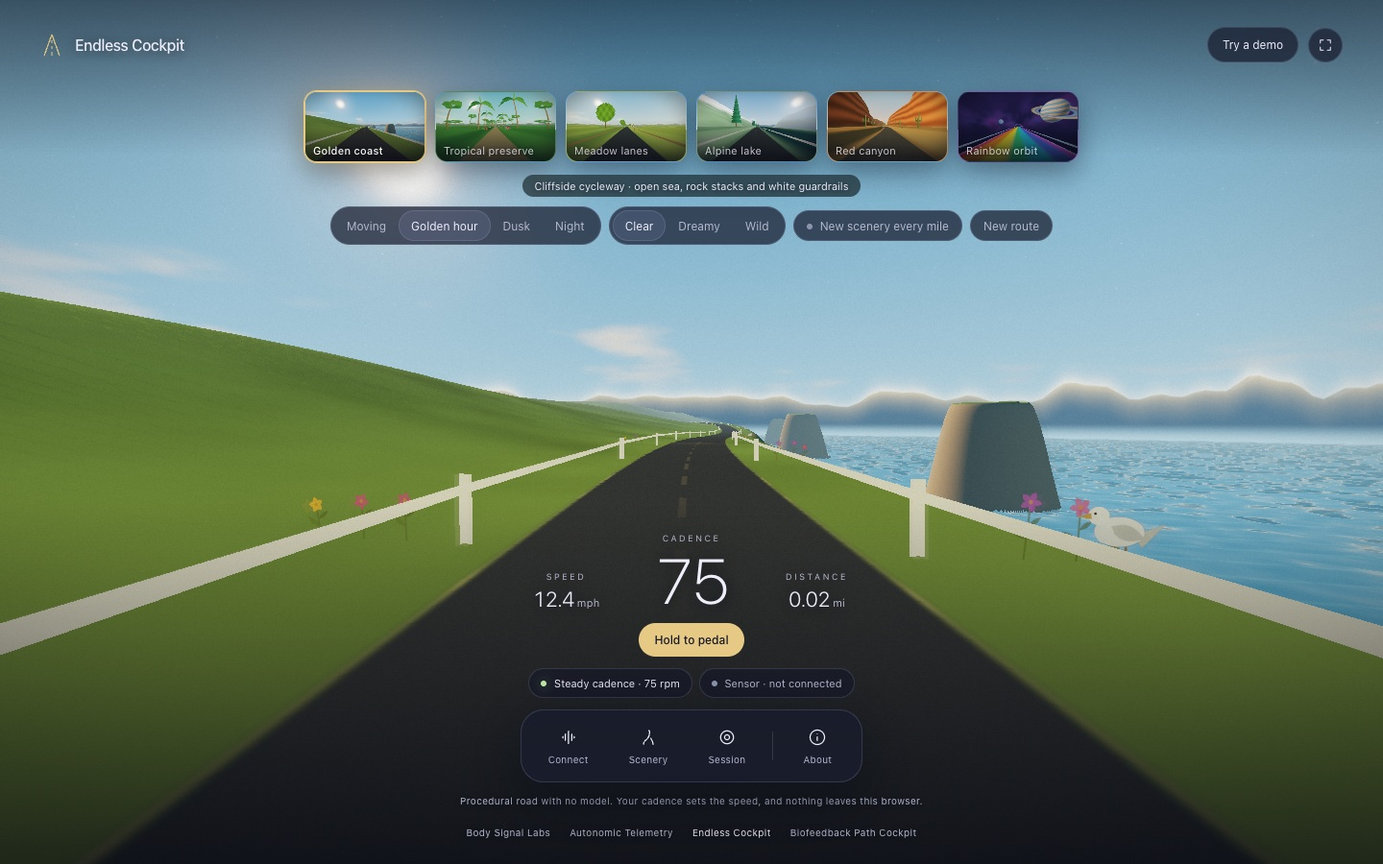
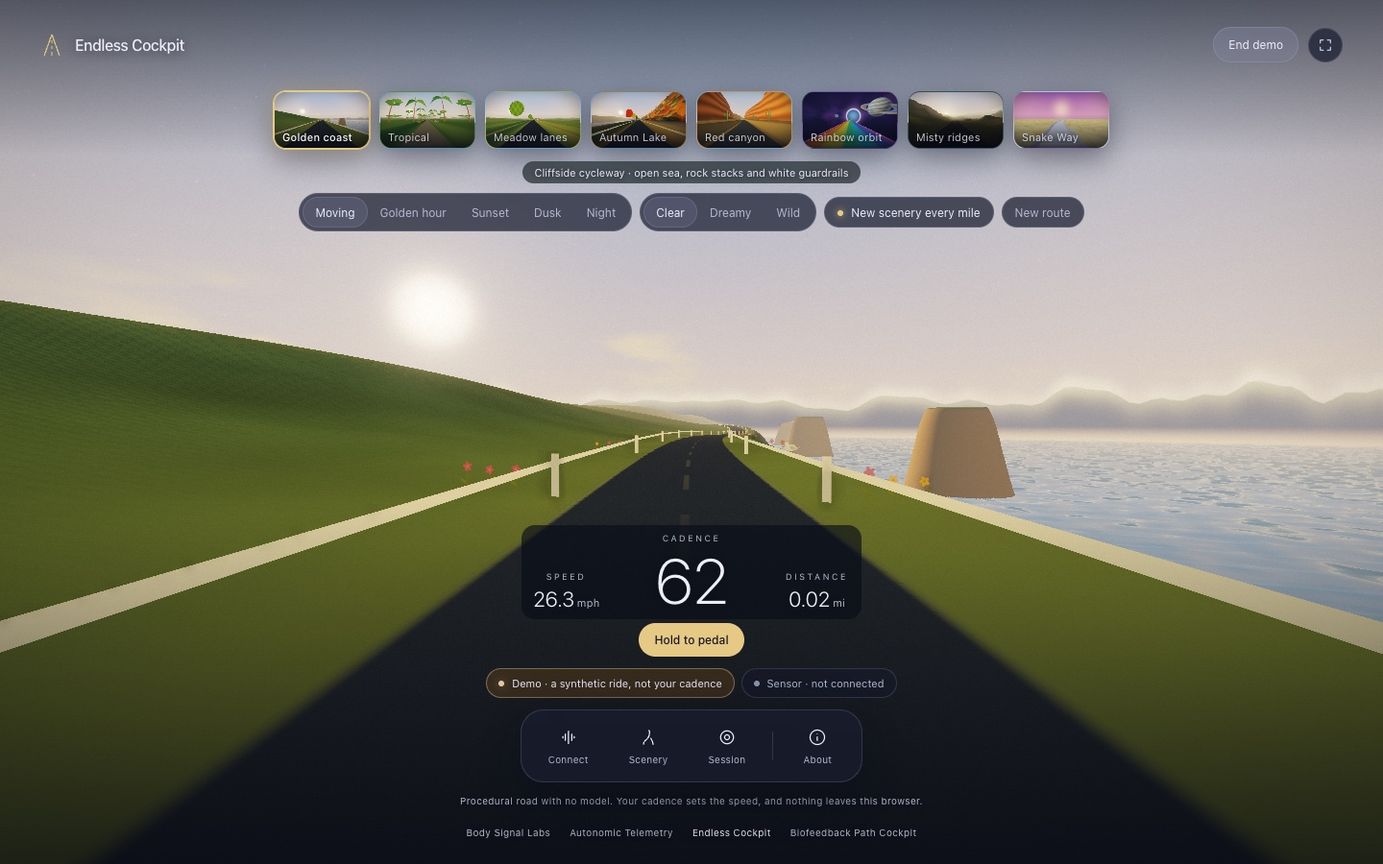
Update docs, field guide, home page, and screenshots with all new features and biomes

diff --git a/field-guide.html b/field-guide.html
@@ -328,18 +328,19 @@ body.site { overflow: auto; background: radial-gradient(1400px 800px at 72% -10%
 
     <section id="endless">
       <h2>Endless Cockpit</h2>
-      <p>Endless Cockpit takes its speed from your cadence. Connect a Bluetooth cadence sensor or smart trainer from the Connect sheet, hold Space or the Hold to pedal button, or set a steady cadence. It uses Biofeedback's cadence response: smooth acceleration and braking, an 18 m/s nominal top speed before grade, and a grade multiplier from 0.6 to 1.35. Holding Space follows that same response, with no added velocity kick or road-light bars. The displayed speed is simulated travel, not measured bicycle speed.</p>
-      <p>Both cockpits offer Golden coast, Tropical, Meadow lanes, Autumn Lake, Red canyon, Rainbow orbit, Misty ridges and Snake Way. The coast has sea stacks and guardrails; the preserve has palms and an earth trail; the meadows have farms and fences. Autumn Lake follows a lake between colorful woodland and rocky bluffs. The canyon has sandstone walls, Rainbow orbit crosses space on a suspended ribbon, Misty ridges keeps Biofeedback's original misty mountain road, and Snake Way winds above golden clouds on a pale, scaled road with raised spines.</p>
-      <p>Endless puts the scene tiles on the main screen, beside time of day, the Clear/Dreamy/Wild looks, New scenery every mile, and New route. It remembers those choices. Biofeedback's scene choices are in its Route sheet. On a phone, hold the pedal button with a finger.</p>
+      <p>Endless Cockpit takes its speed from your cadence. Connect a Bluetooth cadence sensor or smart trainer from the Connect sheet, hold Space or the Hold to pedal button, or set a steady cadence. It features natural momentum physics: releasing Space or the pedal button coasts smoothly to a stop. Smart trainers receive live Bluetooth FTMS target inclination matching the procedural road slope. The displayed speed is simulated travel, not measured bicycle speed.</p>
+      <p>Both cockpits offer Golden coast, Tropical, Meadow lanes, Autumn Lake, Red canyon, Rainbow orbit, Misty ridges and Snake Way. The coast has sea stacks and guardrails; Tropical has palms and an earth trail; the meadows have farms and fences. Autumn Lake follows a lake between colorful woodland and rocky bluffs. The canyon has sandstone walls, Rainbow orbit crosses space on a suspended ribbon (with an optional space lattice toggle in Scenery), Misty ridges keeps Biofeedback's original misty mountain road, and Snake Way winds above golden clouds on a pale, scaled road with raised spines.</p>
+      <p>Both cockpits place the scene tiles on the main screen, beside five times of day (Moving, Golden hour, Sunset, Dusk, Night), Clear/Dreamy/Wild looks, New scenery every mile, and New route. Keyboard shortcuts allow instant control: <b>1–8</b> for scenes, <b>T</b> for time of day, <b>L</b> for looks, <b>A</b> for auto-scenery, <b>N</b> for a new route, and <b>Z</b> or <b>Escape</b> for Zen / Cinema mode. Middle-clicking (scroll wheel click) instantly rolls a random scenery combination. Completed sessions can be exported as standard TCX activity files for Strava and Garmin Connect.</p>
       <p>The sensor's status reads not connected, no Bluetooth in this browser, none chosen, connected with no cadence yet, live, or disconnected. Some sensors send nothing until the crank turns.</p>
       <p>A replay keeps its recorded input ahead of live or manual cadence. For a new ride, a running demo or available sensor supplies cadence; otherwise a steady setting takes priority over the pedal button. Older Endless recordings retain their former 7 m/s nominal speed scale. Their cadence was already smoothed when saved, so replay is not an exact physical reconstruction.</p>
     </section>
 
     <section id="biofeedback">
       <h2>Biofeedback Path Cockpit</h2>
-      <p>A Bluetooth heart-rate strap paints the weather, and a cadence sensor or smart trainer sets the speed, straight from Chrome or Edge with no helper app. A strap that reports beat intervals adds RMSSD and SDNN. A rate-only sensor, such as the Hume Band, gives an explicitly limited estimate. For Muse S, choose <b>Brainwaves</b> in Ride and use the <a href="docs/EEG_SETUP.md">optional Mac bridge launcher</a>. No cadence or heart sensor is required for that drive option. The desktop app's window cannot show the Bluetooth list, so connect from a browser.</p>
-      <p><b>Watch:</b> the inferred index, Autonomic Telemetry's own model, makes the gas cloud wider, brighter and warmer. It needs 120 seconds of quiet data first, and it waits while you pedal. <b>Ride:</b> heart rate above your baseline adds up to 4.5% of apparent grade, shown apart from the road's grade. <b>Train:</b> follow the ring, and how far your heart rate swings with it lifts the fog. Hold it for a minute and dawn breaks.</p>
-      <p>Watch and Train keep their weather, breathing and fog controls, with the same signal calculations as before. Misty ridges remains the starting scene. Older Biofeedback recordings use their original scene catalog and renderer, so their saved scene numbers still refer to the environments they recorded.</p>
+      <p>A Bluetooth heart-rate strap paints the weather, and a cadence sensor or smart trainer sets the speed, straight from Chrome or Edge with no helper app. Smart trainers receive procedural incline adjustments over Bluetooth FTMS. A strap that reports beat intervals adds RMSSD and SDNN. A rate-only sensor, such as the Hume Band, gives an explicitly limited estimate. For Muse S, choose <b>Brainwaves</b> in Ride and use the <a href="docs/EEG_SETUP.md">optional Mac bridge launcher</a>. No cadence or heart sensor is required for that drive option. The desktop app's window cannot show the Bluetooth list, so connect from a browser.</p>
+      <p>Biofeedback Path Cockpit shares the same on-screen scenebar, five times of day (including Sunset), Clear/Dreamy/Wild looks, keyboard shortcuts, and TCX activity export as Endless Cockpit.</p>
+      <p><b>Watch:</b> Engages automatically when the bike stops moving after 2.5 seconds. The camera tilts up toward the sky and provides a rhythmic cardiac coherence breathing pacer (6 breaths/minute). Pedaling immediately returns the camera to the forward road view. In resting state, the inferred index (Autonomic Telemetry's model) also charges the sky. <b>Ride:</b> Cadence sets speed with momentum coasting; heart rate above baseline adds apparent grade. <b>Train:</b> Follow the ring, and heart-rate swing coherence lifts the fog. Hold it for a minute and dawn breaks.</p>
+      <p>Watch and Train keep their weather, breathing and fog controls, with the same signal calculations as before. Older Biofeedback recordings use their original scene catalog and renderer, so their saved scene numbers still refer to the environments they recorded.</p>
       <p><b>Brainwaves drive:</b> connect your Muse S, then calibrate with your eyes open while looking at the scene. A lower EEG beta/alpha ratio relative to your reference increases speed and steadiness. The score is an experimental game mapping, not a measurement of mental clarity. Invalid or stale EEG makes the ride coast to a stop; its quality message explains why. The demo and recordings keep their source labels.</p>
       <p>Each sensor says whether it is not connected, waiting for you to choose, refused, missing, connected with no reading, live, or disconnected. Inferred values are never measured, and none of it is medical. It is not therapy.</p>
     </section>

diff --git a/src/field-guide.src.html b/src/field-guide.src.html
@@ -19,18 +19,19 @@
 
     <section id="endless">
       <h2>Endless Cockpit</h2>
-      <p>Endless Cockpit takes its speed from your cadence. Connect a Bluetooth cadence sensor or smart trainer from the Connect sheet, hold Space or the Hold to pedal button, or set a steady cadence. It uses Biofeedback's cadence response: smooth acceleration and braking, an 18 m/s nominal top speed before grade, and a grade multiplier from 0.6 to 1.35. Holding Space follows that same response, with no added velocity kick or road-light bars. The displayed speed is simulated travel, not measured bicycle speed.</p>
-      <p>Both cockpits offer Golden coast, Tropical, Meadow lanes, Autumn Lake, Red canyon, Rainbow orbit, Misty ridges and Snake Way. The coast has sea stacks and guardrails; the preserve has palms and an earth trail; the meadows have farms and fences. Autumn Lake follows a lake between colorful woodland and rocky bluffs. The canyon has sandstone walls, Rainbow orbit crosses space on a suspended ribbon, Misty ridges keeps Biofeedback's original misty mountain road, and Snake Way winds above golden clouds on a pale, scaled road with raised spines.</p>
-      <p>Endless puts the scene tiles on the main screen, beside time of day, the Clear/Dreamy/Wild looks, New scenery every mile, and New route. It remembers those choices. Biofeedback's scene choices are in its Route sheet. On a phone, hold the pedal button with a finger.</p>
+      <p>Endless Cockpit takes its speed from your cadence. Connect a Bluetooth cadence sensor or smart trainer from the Connect sheet, hold Space or the Hold to pedal button, or set a steady cadence. It features natural momentum physics: releasing Space or the pedal button coasts smoothly to a stop. Smart trainers receive live Bluetooth FTMS target inclination matching the procedural road slope. The displayed speed is simulated travel, not measured bicycle speed.</p>
+      <p>Both cockpits offer Golden coast, Tropical, Meadow lanes, Autumn Lake, Red canyon, Rainbow orbit, Misty ridges and Snake Way. The coast has sea stacks and guardrails; Tropical has palms and an earth trail; the meadows have farms and fences. Autumn Lake follows a lake between colorful woodland and rocky bluffs. The canyon has sandstone walls, Rainbow orbit crosses space on a suspended ribbon (with an optional space lattice toggle in Scenery), Misty ridges keeps Biofeedback's original misty mountain road, and Snake Way winds above golden clouds on a pale, scaled road with raised spines.</p>
+      <p>Both cockpits place the scene tiles on the main screen, beside five times of day (Moving, Golden hour, Sunset, Dusk, Night), Clear/Dreamy/Wild looks, New scenery every mile, and New route. Keyboard shortcuts allow instant control: <b>1–8</b> for scenes, <b>T</b> for time of day, <b>L</b> for looks, <b>A</b> for auto-scenery, <b>N</b> for a new route, and <b>Z</b> or <b>Escape</b> for Zen / Cinema mode. Middle-clicking (scroll wheel click) instantly rolls a random scenery combination. Completed sessions can be exported as standard TCX activity files for Strava and Garmin Connect.</p>
       <p>The sensor's status reads not connected, no Bluetooth in this browser, none chosen, connected with no cadence yet, live, or disconnected. Some sensors send nothing until the crank turns.</p>
       <p>A replay keeps its recorded input ahead of live or manual cadence. For a new ride, a running demo or available sensor supplies cadence; otherwise a steady setting takes priority over the pedal button. Older Endless recordings retain their former 7 m/s nominal speed scale. Their cadence was already smoothed when saved, so replay is not an exact physical reconstruction.</p>
     </section>
 
     <section id="biofeedback">
       <h2>Biofeedback Path Cockpit</h2>
-      <p>A Bluetooth heart-rate strap paints the weather, and a cadence sensor or smart trainer sets the speed, straight from Chrome or Edge with no helper app. A strap that reports beat intervals adds RMSSD and SDNN. A rate-only sensor, such as the Hume Band, gives an explicitly limited estimate. For Muse S, choose <b>Brainwaves</b> in Ride and use the <a href="docs/EEG_SETUP.md">optional Mac bridge launcher</a>. No cadence or heart sensor is required for that drive option. The desktop app's window cannot show the Bluetooth list, so connect from a browser.</p>
-      <p><b>Watch:</b> the inferred index, Autonomic Telemetry's own model, makes the gas cloud wider, brighter and warmer. It needs 120 seconds of quiet data first, and it waits while you pedal. <b>Ride:</b> heart rate above your baseline adds up to 4.5% of apparent grade, shown apart from the road's grade. <b>Train:</b> follow the ring, and how far your heart rate swings with it lifts the fog. Hold it for a minute and dawn breaks.</p>
-      <p>Watch and Train keep their weather, breathing and fog controls, with the same signal calculations as before. Misty ridges remains the starting scene. Older Biofeedback recordings use their original scene catalog and renderer, so their saved scene numbers still refer to the environments they recorded.</p>
+      <p>A Bluetooth heart-rate strap paints the weather, and a cadence sensor or smart trainer sets the speed, straight from Chrome or Edge with no helper app. Smart trainers receive procedural incline adjustments over Bluetooth FTMS. A strap that reports beat intervals adds RMSSD and SDNN. A rate-only sensor, such as the Hume Band, gives an explicitly limited estimate. For Muse S, choose <b>Brainwaves</b> in Ride and use the <a href="docs/EEG_SETUP.md">optional Mac bridge launcher</a>. No cadence or heart sensor is required for that drive option. The desktop app's window cannot show the Bluetooth list, so connect from a browser.</p>
+      <p>Biofeedback Path Cockpit shares the same on-screen scenebar, five times of day (including Sunset), Clear/Dreamy/Wild looks, keyboard shortcuts, and TCX activity export as Endless Cockpit.</p>
+      <p><b>Watch:</b> Engages automatically when the bike stops moving after 2.5 seconds. The camera tilts up toward the sky and provides a rhythmic cardiac coherence breathing pacer (6 breaths/minute). Pedaling immediately returns the camera to the forward road view. In resting state, the inferred index (Autonomic Telemetry's model) also charges the sky. <b>Ride:</b> Cadence sets speed with momentum coasting; heart rate above baseline adds apparent grade. <b>Train:</b> Follow the ring, and heart-rate swing coherence lifts the fog. Hold it for a minute and dawn breaks.</p>
+      <p>Watch and Train keep their weather, breathing and fog controls, with the same signal calculations as before. Older Biofeedback recordings use their original scene catalog and renderer, so their saved scene numbers still refer to the environments they recorded.</p>
       <p><b>Brainwaves drive:</b> connect your Muse S, then calibrate with your eyes open while looking at the scene. A lower EEG beta/alpha ratio relative to your reference increases speed and steadiness. The score is an experimental game mapping, not a measurement of mental clarity. Invalid or stale EEG makes the ride coast to a stop; its quality message explains why. The demo and recordings keep their source labels.</p>
       <p>Each sensor says whether it is not connected, waiting for you to choose, refused, missing, connected with no reading, live, or disconnected. Inferred values are never measured, and none of it is medical. It is not therapy.</p>
     </section>

diff --git a/index.html b/index.html
@@ -326,12 +326,12 @@ body.site { overflow: auto; background: radial-gradient(1400px 800px at 72% -10%
         <div class="body"><h2>Autonomic Telemetry</h2><p>A galaxy whose extent, brightness and warmth follow a personal, experimental estimate of arousal, inferred from heart rate and pulse variability, with EEG shown as context. Work keeps watch, and Rest adds paced breathing. Live signals come through a small bridge on a Mac.</p><span class="go">Open Autonomic Telemetry →</span></div>
       </a>
       <a class="app-card" href="endless-cockpit.html" id="card-endless">
-        <img src="docs/new-england-autumn.jpg" alt="Autumn Lake: a lakeside road below red, orange and gold woodland, with eight scenery choices" width="1440" height="900">
-        <div class="body"><h2>Endless Cockpit</h2><p>Eight scenes, from coast and tropical trails to Autumn Lake, Misty ridges, a rainbow skyway and Snake Way above golden clouds. Different terrain and route profiles, with the same cadence response as Biofeedback.</p><span class="go">Open Endless Cockpit →</span></div>
+        <img src="docs/new-england-autumn.jpg" alt="Endless Cockpit on Autumn Lake with eight scene tiles, five times of day, and look controls" width="1440" height="900">
+        <div class="body"><h2>Endless Cockpit</h2><p>Eight scenes from Golden coast and Tropical to Autumn Lake, Misty ridges, Rainbow orbit, and Snake Way. Natural momentum coasting, five times of day including Sunset, keyboard shortcuts, Zen mode, kinetic camera banking, and TCX activity export for Strava.</p><span class="go">Open Endless Cockpit →</span></div>
       </a>
       <a class="app-card" href="biofeedback-path-cockpit.html" id="card-biofeedback">
-        <img src="docs/biofeedback-brainwaves.jpg" alt="Brainwaves ride with an EEG control readout and an explicit synthetic demo label" width="1440" height="900">
-        <div class="body"><h2>Biofeedback Path Cockpit</h2><p>The same eight scenes with body-driven weather and fog. Heart rate paints the sky, cadence sets the speed, and paced breathing shapes a practice game. Or power Ride with Muse S brainwaves through the optional Mac bridge, with no cadence sensor. Body-state estimates are labeled as inferred.</p><span class="go">Open Biofeedback Path Cockpit →</span></div>
+        <img src="docs/biofeedback-brainwaves.jpg" alt="Biofeedback Path Cockpit with full shared scene controls, brainwaves ride power, and synthetic EEG preview" width="1440" height="900">
+        <div class="body"><h2>Biofeedback Path Cockpit</h2><p>The same eight scenes with complete on-screen controls, body-driven weather, and smart trainer FTMS incline. Watch mode engages when you stop to guide cardiac recovery breathing; Ride adds cadence momentum or optional Muse S brainwaves; Train builds heart-rate coherence.</p><span class="go">Open Biofeedback Path Cockpit →</span></div>
       </a>
     </div>
     <div class="strip">

diff --git a/src/index.src.html b/src/index.src.html
@@ -17,12 +17,12 @@
         <div class="body"><h2>Autonomic Telemetry</h2><p>A galaxy whose extent, brightness and warmth follow a personal, experimental estimate of arousal, inferred from heart rate and pulse variability, with EEG shown as context. Work keeps watch, and Rest adds paced breathing. Live signals come through a small bridge on a Mac.</p><span class="go">Open Autonomic Telemetry →</span></div>
       </a>
       <a class="app-card" href="endless-cockpit.html" id="card-endless">
-        <img src="docs/new-england-autumn.jpg" alt="Autumn Lake: a lakeside road below red, orange and gold woodland, with eight scenery choices" width="1440" height="900">
-        <div class="body"><h2>Endless Cockpit</h2><p>Eight scenes, from coast and tropical trails to Autumn Lake, Misty ridges, a rainbow skyway and Snake Way above golden clouds. Different terrain and route profiles, with the same cadence response as Biofeedback.</p><span class="go">Open Endless Cockpit →</span></div>
+        <img src="docs/new-england-autumn.jpg" alt="Endless Cockpit on Autumn Lake with eight scene tiles, five times of day, and look controls" width="1440" height="900">
+        <div class="body"><h2>Endless Cockpit</h2><p>Eight scenes from Golden coast and Tropical to Autumn Lake, Misty ridges, Rainbow orbit, and Snake Way. Natural momentum coasting, five times of day including Sunset, keyboard shortcuts, Zen mode, kinetic camera banking, and TCX activity export for Strava.</p><span class="go">Open Endless Cockpit →</span></div>
       </a>
       <a class="app-card" href="biofeedback-path-cockpit.html" id="card-biofeedback">
-        <img src="docs/biofeedback-brainwaves.jpg" alt="Brainwaves ride with an EEG control readout and an explicit synthetic demo label" width="1440" height="900">
-        <div class="body"><h2>Biofeedback Path Cockpit</h2><p>The same eight scenes with body-driven weather and fog. Heart rate paints the sky, cadence sets the speed, and paced breathing shapes a practice game. Or power Ride with Muse S brainwaves through the optional Mac bridge, with no cadence sensor. Body-state estimates are labeled as inferred.</p><span class="go">Open Biofeedback Path Cockpit →</span></div>
+        <img src="docs/biofeedback-brainwaves.jpg" alt="Biofeedback Path Cockpit with full shared scene controls, brainwaves ride power, and synthetic EEG preview" width="1440" height="900">
+        <div class="body"><h2>Biofeedback Path Cockpit</h2><p>The same eight scenes with complete on-screen controls, body-driven weather, and smart trainer FTMS incline. Watch mode engages when you stop to guide cardiac recovery breathing; Ride adds cadence momentum or optional Muse S brainwaves; Train builds heart-rate coherence.</p><span class="go">Open Biofeedback Path Cockpit →</span></div>
       </a>
     </div>
     <div class="strip">

diff --git a/docs/BIOFEEDBACK.md b/docs/BIOFEEDBACK.md
@@ -6,7 +6,7 @@ Cadence is **measured** when a sensor reports it. Everything about your state is
 
 ## Shared scenery
 
-The Route sheet offers the same eight environments as Endless Cockpit: Golden coast, Tropical preserve, Meadow lanes, New England Autumn, Red canyon, Rainbow orbit, Misty pines and Snake Way. New England Autumn replaces the alpine-lake choice with lakeside woodland, red/orange/gold foliage, evergreens and rocky bluffs. Snake Way is a pale, scaled serpent road with raised spines above golden clouds. Misty pines keeps the original Biofeedback mountain road, mist, teal edges and drifting lights.
+The Route sheet offers the same eight environments as Endless Cockpit: Golden coast, Tropical, Meadow lanes, Autumn Lake, Red canyon, Rainbow orbit, Misty ridges and Snake Way. Autumn Lake replaces the alpine-lake choice with lakeside woodland, red/orange/gold foliage, evergreens and rocky bluffs. Snake Way is a pale, scaled serpent road with raised spines above golden clouds. Misty ridges keeps the original Biofeedback mountain road, mist, teal edges and drifting lights.
 
 The shared renderer and route functions live in `src/cyclingscene.js`. Watch's inferred weather and Train's breathing/fog controls retain their existing signal calculations. Scene choice does not change which measurements or inference rules those modes use. These are stylized procedural environments, not recorded places.
 
@@ -28,7 +28,7 @@ Web Bluetooth, read directly by the page:
 
 - **Heart Rate service (0x180D, 0x2A37).** Rate, plus beat intervals in 1/1024 s if the sensor sends them, and the skin-contact flag.
 - **Hume Band.** The same two commands as Autonomic Telemetry's `bridge/hume.py` (service `fff0`, write `fff6`, notify `fff7`), renewed every 20 seconds. Rate only. A reply of zero is warm-up, not 0 bpm. This direct path has not been run against a real band.
-- **Cycling Speed and Cadence (0x2A5B)** and **Fitness Machine indoor bike data (0x2AD2)**. A crank that stops sends the same event time again, so cadence reads zero after 2.5 seconds with no new crank event.
+- **Cycling Speed and Cadence (0x2A5B)** and **Fitness Machine indoor bike data (0x2AD2)**. Smart trainers also support FTMS control point (`0x2AD9`), syncing real-time procedural road grade to trainer resistance in 0.1% slope increments. A crank that stops sends the same event time again, so cadence reads zero after 2 seconds with no new crank event.
 
 Each sensor's state is one of: not connected, waiting for you to choose, connecting, **permission denied** (the browser refused), **no sensor found** (nothing chosen, or Bluetooth off), **connected with no reading** (silence, warm-up, no skin contact, or a speed-only sensor), live, disconnected, or could not connect. A browser without Web Bluetooth, a plain http page and the desktop app's window each say so before any click.
 
@@ -68,7 +68,7 @@ A stated script, sent as real packet bytes through the same parsers: a rest that
 
 ## Sessions and the Ghost Deck
 
-A session file holds cadence ten times a second, distance twice a second, and heart rate, RMSSD, SDNN, the index, the swing, clarity, the hold and dawn once a second, with the mode, scene and route seed. It is your own record, not a medical record, and nothing leaves the computer unless you share it. Replay plays back what was computed, without re-running the model. New files include the starting route, cadence mapping and baseline/settings. Their distance begins at zero when recording starts. The Ghost Deck restores that start and races the recorded distance as a light on the road, with the gap in meters. Older files are rebased to zero and label their starting position as approximate. A ride saved by the older page also replays and races, marked synthetic.
+A session file holds cadence ten times a second, distance twice a second, and heart rate, RMSSD, SDNN, the index, the swing, clarity, the hold and dawn once a second, with the mode, scene and route seed. It is your own record, not a medical record, and nothing leaves the computer unless you share it. Completed rides can also be exported directly as standard Training Center XML (`.tcx`) files containing timestamped speed, cadence, elevation and heart-rate tracks compatible with Strava, Garmin Connect, and Apple Health. Replay plays back what was computed, without re-running the model. New files include the starting route, cadence mapping and baseline/settings. Their distance begins at zero when recording starts. The Ghost Deck restores that start and races the recorded distance as a light on the road, with the gap in meters. Older files are rebased to zero and label their starting position as approximate. A ride saved by the older page also replays and races, marked synthetic.
 
 New files identify the eight-scene catalog as `cycling-scenes@1`. Files saved before that marker use the original five-scene Biofeedback catalog and `PathScene` renderer, preserving their numeric scene meanings. Re-recording one of those replays retains its original catalog. Recorded EEG game-control values and synthetic labels remain separate from cadence.
 

diff --git a/README.md b/README.md
@@ -10,11 +10,22 @@ Immersive scenes that follow signals from your body, in the browser. Each page r
 
 ![Endless Cockpit on the Autumn Lake lakeside road](docs/new-england-autumn.jpg)
 
-**Endless Cockpit** takes you through eight scenes shared with Biofeedback Path Cockpit: Golden coast, Tropical, Meadow lanes, Autumn Lake, Red canyon, Rainbow orbit, Misty ridges and Snake Way. Ride beside the sea, through autumn woodland or misty mountain ridges, along a rainbow skyway, or over golden clouds on a winding serpent road. The routes have different terrain, objects, widths, bends and elevation profiles. Your cadence sets the speed, from a Bluetooth sensor or smart trainer, the pedal button, or a steady setting. Both cockpits use the same cadence acceleration, braking and grade response. Clear is the default look; Dreamy and Wild add visual feedback. New scenery every mile changes the landscape as you ride. These are procedural places, not GPS routes.
+**Endless Cockpit** takes you through eight scenes shared with Biofeedback Path Cockpit: Golden coast, Tropical, Meadow lanes, Autumn Lake, Red canyon, Rainbow orbit, Misty ridges and Snake Way. Ride beside the sea, through autumn woodland or misty mountain ridges, along a rainbow skyway, or over golden clouds on a winding serpent road. The routes feature distinct procedural terrain, vegetation, widths, bends and elevation profiles. Your cadence sets the speed, from a Bluetooth sensor, FTMS smart trainer, the pedal button, or a steady setting. Both cockpits feature natural kinetic momentum when releasing the pedal, and five times of day: Moving, Golden hour, Sunset, Dusk, and Night. Clear is the default look; Dreamy and Wild add rich visual feedback. New scenery every mile blends in fresh landscapes as you ride. Complete sessions export as standard TCX activity files for Strava and Garmin.
 
-![Biofeedback Path Cockpit during its labeled synthetic EEG demo](docs/biofeedback-brainwaves.jpg)
+![Biofeedback Path Cockpit with unified scene controls, brainwaves power, and cardiac recovery pacing](docs/biofeedback-brainwaves.jpg)
 
-**Biofeedback Path Cockpit** combines the shared scenery with body-driven weather and fog controls. Watch uses the inferred index to change the sky; Ride uses cadence and can add heart-rate grade-load; Train turns paced heart-rate variation into a fog-clearing game. Its original Misty ridges environment remains available. In Ride, optional **Brainwaves** drive uses Muse S EEG to set speed and smoothness without cadence or a heart sensor. It runs through the local Mac bridge, with personal calibration and visible signal quality; the EEG balance is an experimental game control, not a measurement of mental clarity. The inferred index is Autonomic Telemetry's own model.
+**Biofeedback Path Cockpit** brings the full eight-scene catalog and on-screen scenebar together with body-driven weather, fog controls, and smart trainer FTMS incline sync. **Watch mode** engages automatically whenever the bike stops moving for 2.5 seconds, tilting the camera skyward to guide cardiac recovery pacing (6 breaths/min) and returning forward as soon as you pedal; resting state also reflects Autonomic Telemetry's inferred arousal index. **Ride mode** uses cadence with natural momentum, optional heart-rate grade-load, and Bluetooth FTMS smart trainer resistance. Or power Ride with **Brainwaves** using Muse S EEG through the local Mac bridge, with personal calibration and visible signal quality without cadence or a heart sensor. **Train mode** turns paced heart-rate variability into a fog-clearing coherence game.
+
+### Controls & Shortcuts
+
+Both cockpits support quick keyboard navigation and gestures:
+- **`1`–`8`**: Instantly switch between the 8 scenes.
+- **`T`**: Cycle through Times of Day (Moving, Golden hour, Sunset, Dusk, Night).
+- **`L`**: Cycle Looks (Clear, Dreamy, Wild).
+- **`A`**: Toggle Auto-Scenery (new scene every mile).
+- **`N`**: Generate a new procedural route seed.
+- **`Z` / `Escape`**: Toggle Zen / Cinema Mode (hides controls, keeps floating glass telemetry).
+- **Scroll-wheel click (middle click)**: Instantly rolls a random biome, time of day, and look combination.
 
 ## What the pages tell you
 

diff --git a/docs/METHODS.md b/docs/METHODS.md
@@ -4,7 +4,7 @@ Everything in Endless Cockpit is a stated rule. Nothing is learned, and it uses 
 
 ## Shared cycling scenes
 
-Both cockpits use the eight-scene catalog and renderer in `src/cyclingscene.js`: Golden coast, Tropical preserve, Meadow lanes, New England Autumn, Red canyon, Rainbow orbit, Misty pines and Snake Way. The coast has open water and rock stacks; the preserve has a rolling forest floor; the meadows have field banks; New England Autumn has a lake, rocky bluffs and deciduous woodland mixed with evergreens; the canyon has stepped walls. Misty pines retains the original Biofeedback mountain road. Rainbow orbit crosses open space, and Snake Way follows a scaled, spiny road above golden clouds. New England Autumn occupies the former Alpine lake slot.
+Both cockpits use the eight-scene catalog and renderer in `src/cyclingscene.js`: Golden coast, Tropical, Meadow lanes, Autumn Lake, Red canyon, Rainbow orbit, Misty ridges and Snake Way. The coast has open water and rock stacks; Tropical has a rolling forest floor; the meadows have field banks; Autumn Lake has a lake, rocky bluffs and deciduous woodland mixed with evergreens; the canyon has stepped walls. Misty ridges retains the original Biofeedback mountain road. Rainbow orbit crosses open space, and Snake Way follows a scaled, spiny road above golden clouds. Autumn Lake occupies the former Alpine lake slot.
 
 Scene weights blend evaluated route positions. Width, curvature, wavelength and elevation vary by landscape, and the camera, terrain shader, elevation preview and grade calculation use those same parameters. Biofeedback retains Watch's inferred weather and Train's breathing/fog controls without changing their signal model.
 
@@ -52,6 +52,6 @@ New exports identify the shared catalog as `cycling-scenes@1` and the cadence ma
 
 A limiter in the final pass tracks local average luminance on a grid 128 cells wide, allowing changes of 0.36 per second in either direction, or 0.16 with reduced motion. It adjusts the finished picture from those regional averages. This does not bound every pixel: moving high-contrast silhouettes can still change rapidly within a region, so the rendered result must be measured. Reduced motion also calms camera rotation, bob and visual feedback.
 
-Endless Cockpit caps this adjustment's brightness gain at 1: it can dim the image but cannot brighten passing foliage. The previous gain of up to 4 could amplify moving contrast into bright flashes. Foliage edges use projected pixel coverage, with fine leaflet patterns fading toward their average once too small to resolve. In Tropical preserve, that footprint also grows with actual riding speed and projected leaf motion: nearby foliage softens at high speed while stationary foliage stays crisp. Tropical layers use alpha-over composition and conservative bounds to avoid cutting holes or edges into overlapping canopies. The road does not receive this additional foliage filtering. Biofeedback retains its existing brightness-gain setting.
+Endless Cockpit caps this adjustment's brightness gain at 1: it can dim the image but cannot brighten passing foliage. The previous gain of up to 4 could amplify moving contrast into bright flashes. Foliage edges use projected pixel coverage, with fine leaflet patterns fading toward their average once too small to resolve. In Tropical, that footprint also grows with actual riding speed and projected leaf motion: nearby foliage softens at high speed while stationary foliage stays crisp. Tropical layers use alpha-over composition and conservative bounds to avoid cutting holes or edges into overlapping canopies. The road does not receive this additional foliage filtering. Biofeedback retains its existing brightness-gain setting.
 
 `tests/flash_check.py` measures sampled rendered cases using the WCAG 2.2 general flash definition. Results apply to the recorded scene, speed and settings; earlier tests of the former 7 m/s Endless build do not validate every combination at the shared 18 m/s scale. See the dated results and limitations in [Validation](VALIDATION.md).

diff --git a/docs/REVIEW.md b/docs/REVIEW.md
@@ -17,7 +17,7 @@ This pass covers Endless Cockpit and Biofeedback Path Cockpit, including their s
 
 ## Shared scenes and motion
 
-The cockpits now use one renderer and route catalog for eight scenes: Golden coast, Tropical preserve, Meadow lanes, New England Autumn, Red canyon, Rainbow orbit, Misty pines and Snake Way. New England Autumn replaces the Alpine lake choice with a lakeside road, colorful woodland and rocky bluffs. Misty pines retains the original Biofeedback environment, now also available in Endless. Snake Way adds a scaled road with raised spines above golden clouds. Watch and Train retain their weather and breathing/fog controls and their existing signal calculations.
+The cockpits now use one renderer and route catalog for eight scenes: Golden coast, Tropical, Meadow lanes, Autumn Lake, Red canyon, Rainbow orbit, Misty ridges and Snake Way. Autumn Lake replaces the Alpine lake choice with a lakeside road, colorful woodland and rocky bluffs. Misty ridges retains the original Biofeedback environment, now also available in Endless. Snake Way adds a scaled road with raised spines above golden clouds. Watch and Train retain their weather and breathing/fog controls and their existing signal calculations.
 
 The shared cadence module preserves Biofeedback's 18 m/s nominal speed, 0.32-second response, braking, curve, grade multiplier and input priority. Endless no longer uses the separate faster Bluetooth response or adds cadence/Space light bars and velocity surges. Its speed, distance and visual travel now follow the same cadence equations as Biofeedback; heart-rate grade-load remains specific to Biofeedback. EEG drive keeps its separate control and 7 m/s maximum.
 

diff --git a/docs/VALIDATION.md b/docs/VALIDATION.md
@@ -6,7 +6,7 @@ A browser test cannot pair a real Bluetooth device, and a page that opens Chrome
 
 ## Shared scenery and cadence motion, 2026-11-04
 
-Both cockpits now offer eight scenes, including the preserved Misty pines mountain road, New England Autumn in the former Alpine lake slot, and Snake Way above golden clouds. The shared renderer has no traveling road-light bands. Both apps use Biofeedback's existing cadence motion equations; EEG propulsion remains separate.
+Both cockpits now offer eight scenes, including the preserved Misty ridges mountain road, Autumn Lake in the former Alpine lake slot, and Snake Way above golden clouds. The shared renderer has no traveling road-light bands. Both apps use Biofeedback's existing cadence motion equations; EEG propulsion remains separate.
 
 - `tests/cadence_motion.cjs`: **12/12** checks against the preserved Biofeedback equations, including 432 input-priority combinations, a 100-second variable-cadence/grade trajectory and identical fixed-step results across six rendering frame rates.
 - `tests/session_regressions.cjs`: **35/35** checks, including explicit scene catalogs, legacy imports, rejection of incompatible scene-set imports during recording, and missing-baseline recording/replay. Legacy Biofeedback files keep their original renderer. Older Endless files retain their six numeric IDs and former speed scale; scene 3 follows the requested Autumn replacement.

diff --git a/docs/INPUTS.md b/docs/INPUTS.md
@@ -8,7 +8,7 @@
 
 ## Cadence
 
-Both cockpits read the standard Bluetooth Cycling Speed and Cadence profile, or a smart trainer's Fitness Machine indoor bike data, through Web Bluetooth. They need no other software. Some sensors send nothing until the crank turns.
+Both cockpits read the standard Bluetooth Cycling Speed and Cadence profile (0x1816), or a smart trainer's Fitness Machine Service (FTMS, 0x1826) indoor bike data, through Web Bluetooth. When connected to an FTMS smart trainer, the cockpits request control and transmit real-time target inclination commands (`0x11` Set Target Inclination in 0.1% increments) matching the procedural road grade. They need no other software. Some sensors send nothing until the crank turns.
 
 ## Heart rate
 
